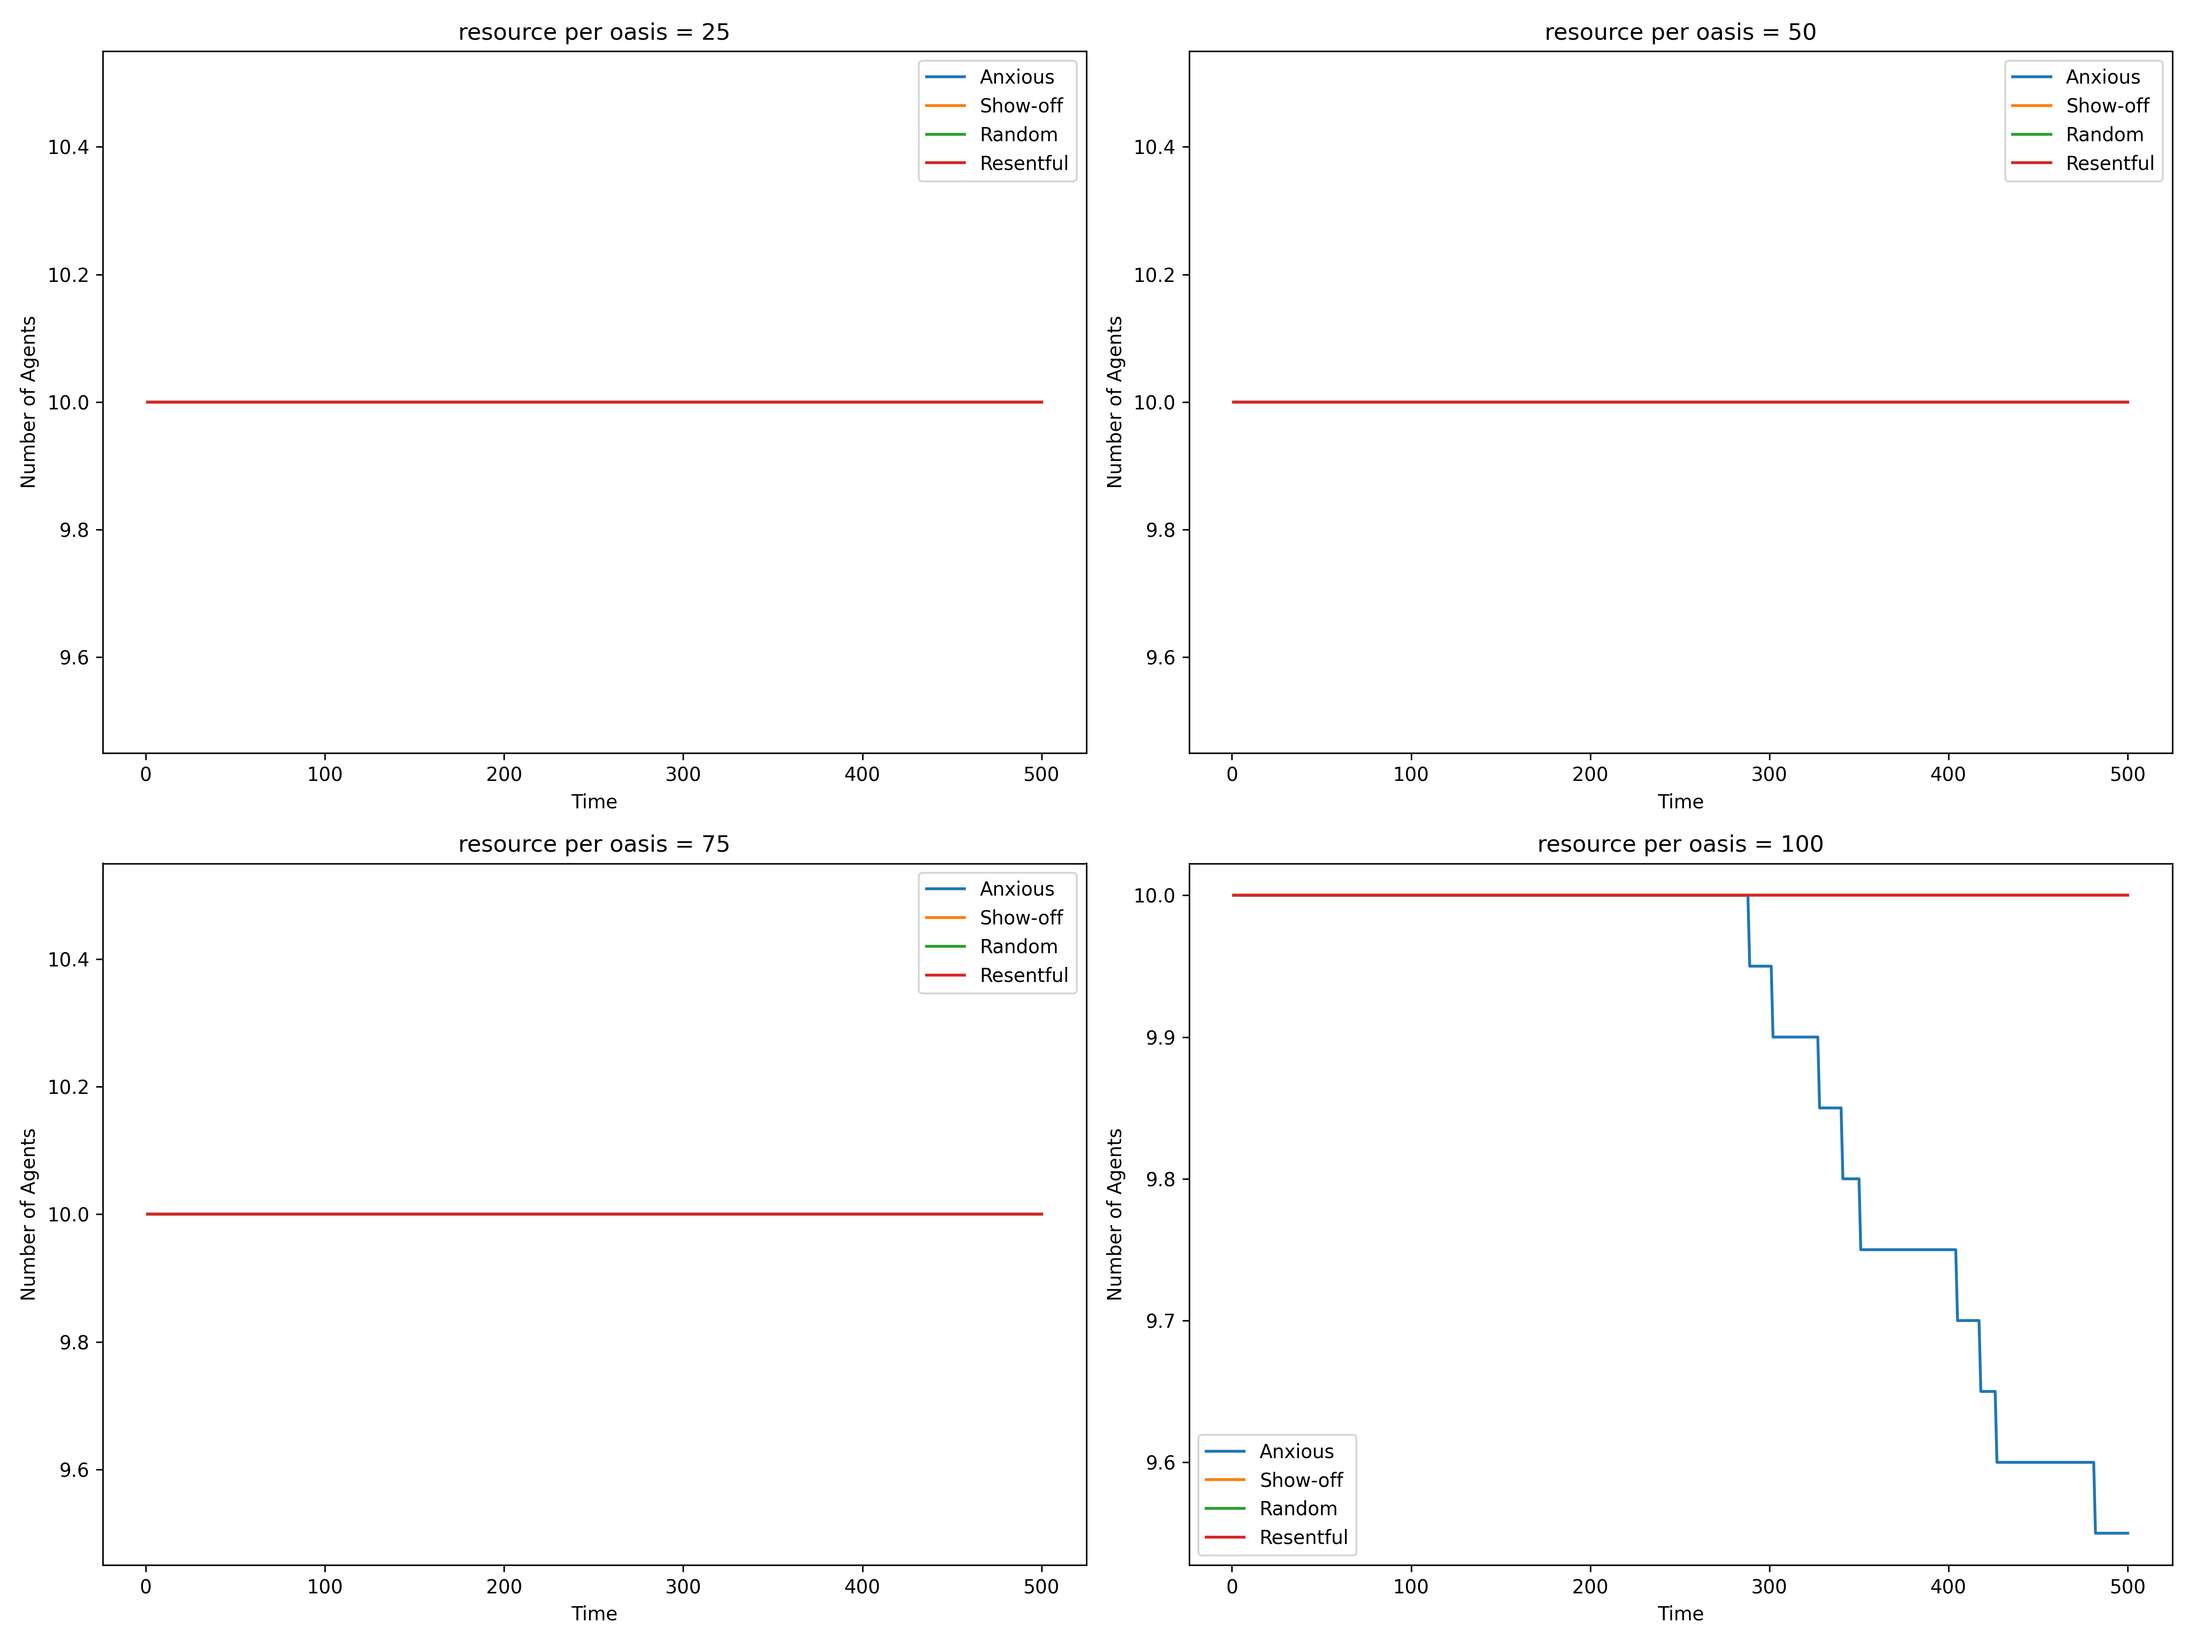
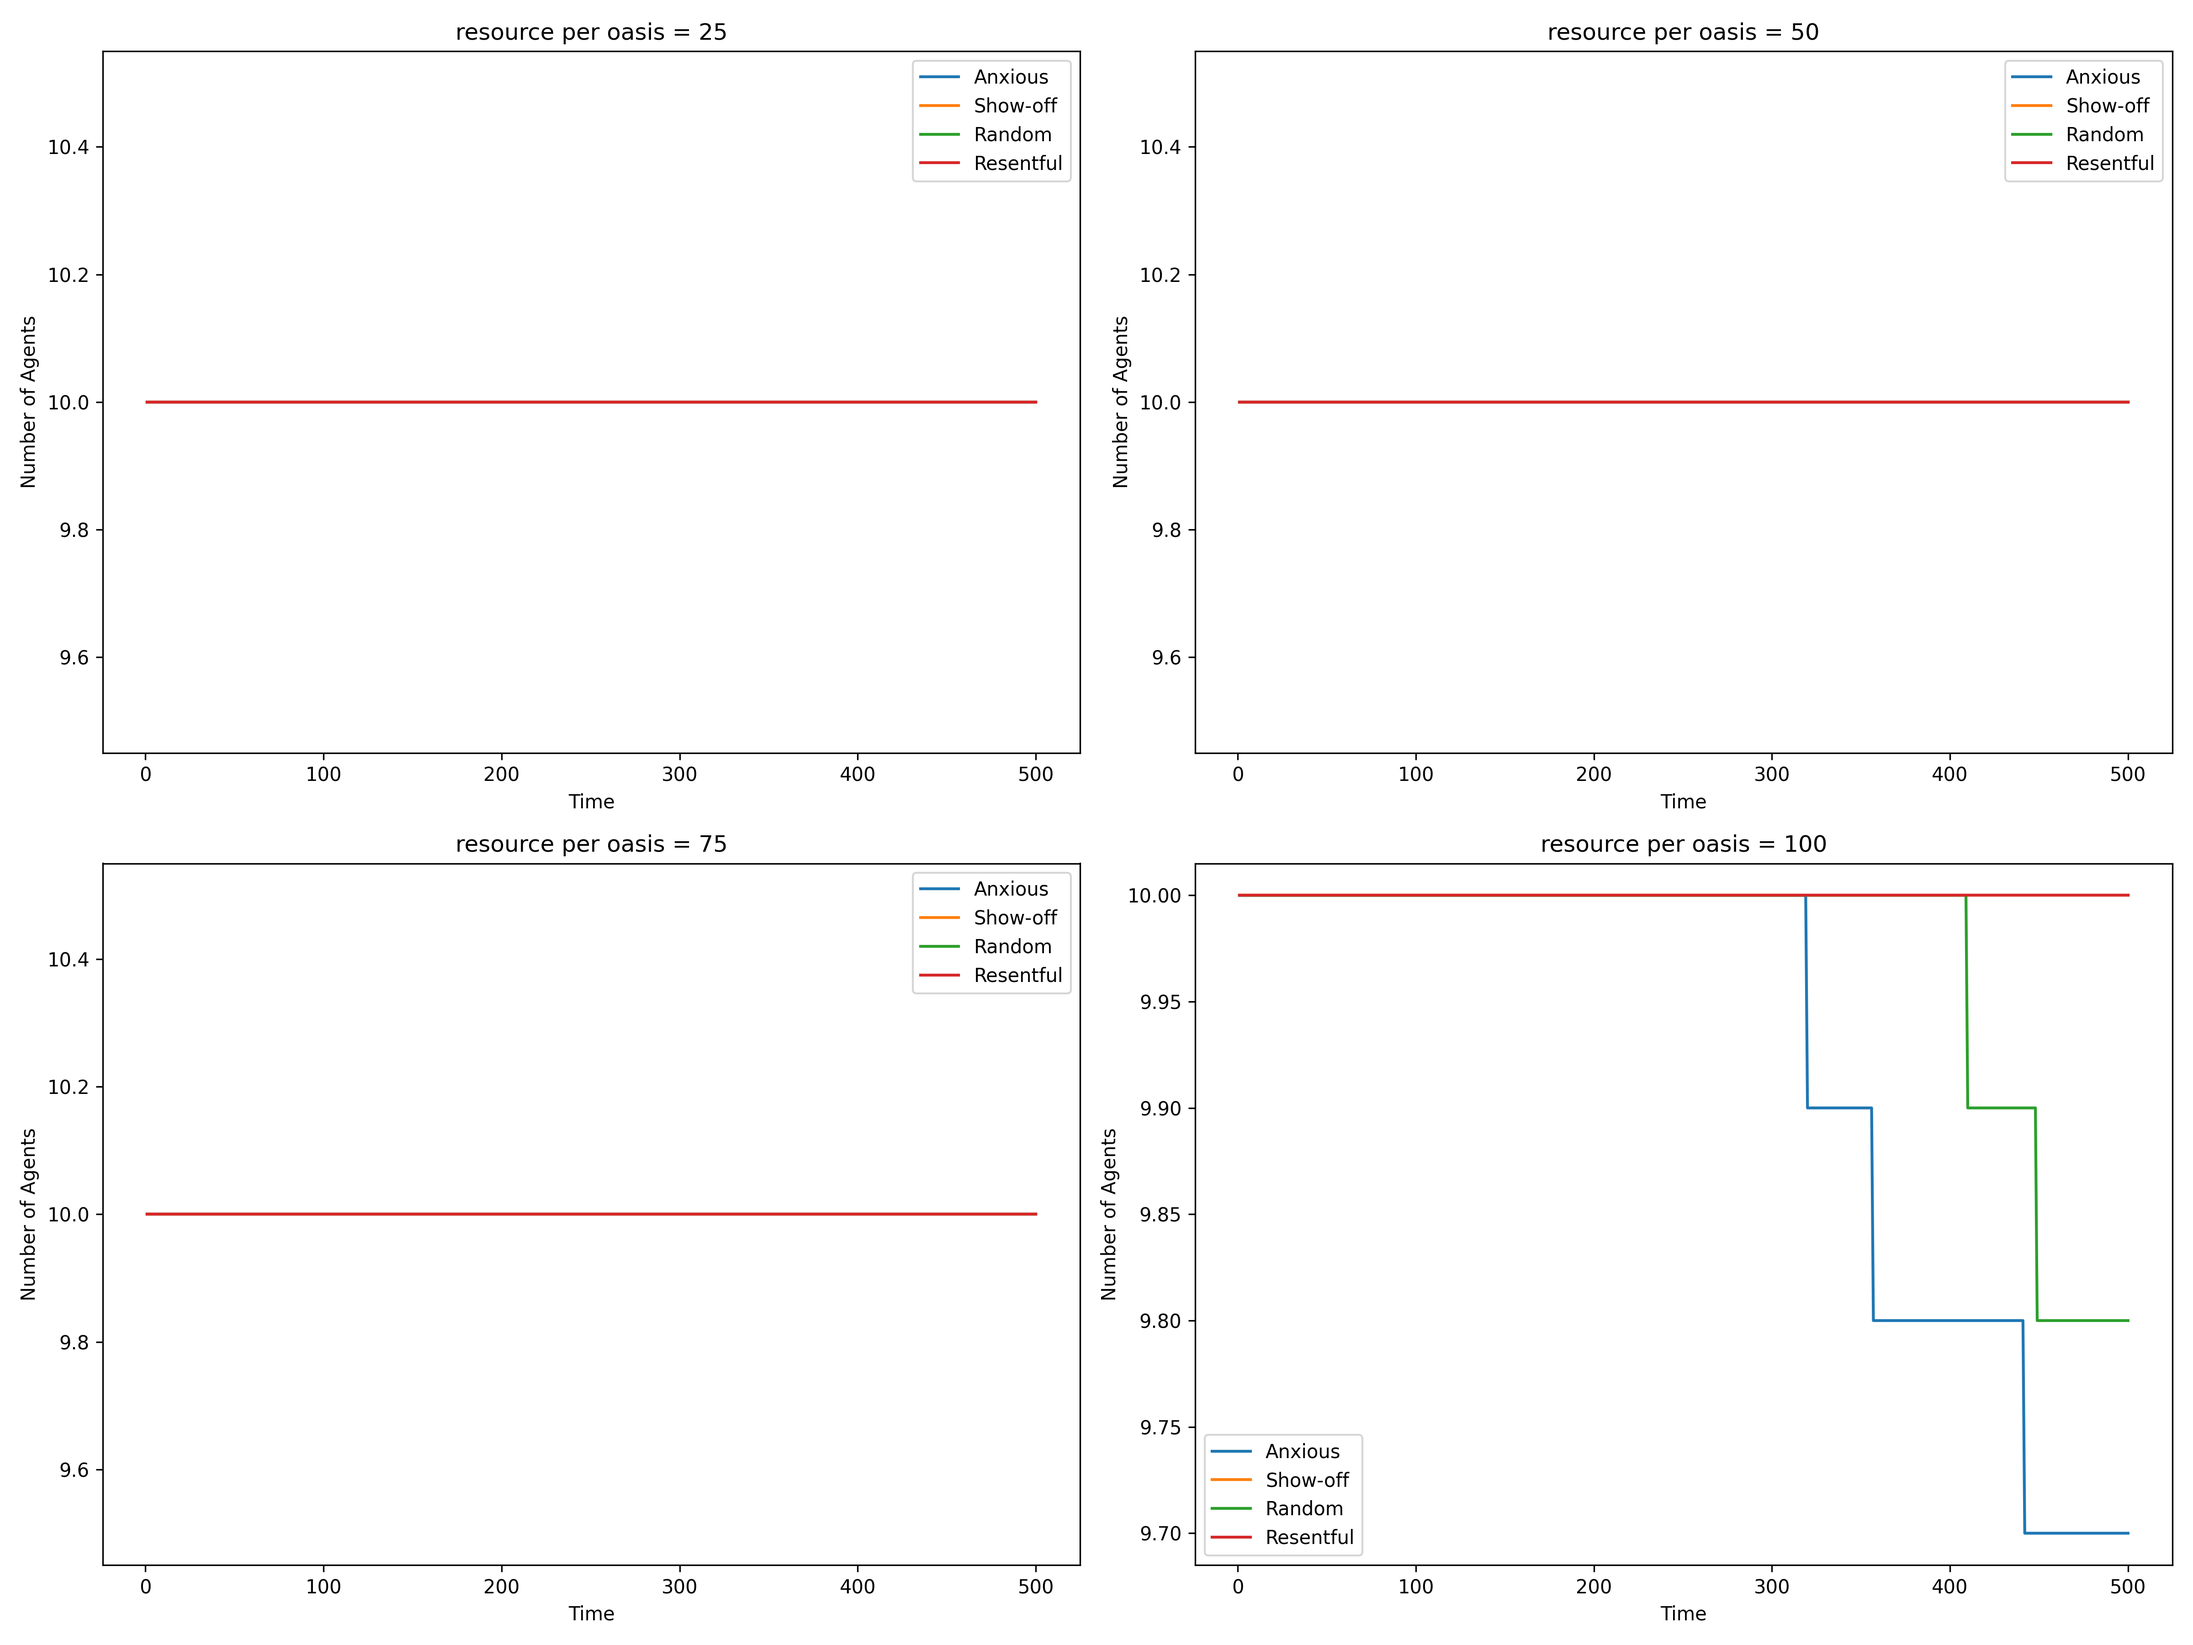
Balthazar's version of type_model

diff --git a/Type_experiment/Type_model.py b/Type_experiment/Type_model.py
@@ -12,36 +12,36 @@ if project_root not in sys.path:
 
 from Agents.Oasis import Oasis
 from Agents.Crew import Chimp_crew
-from Model.Model import Model
 
 class Type_Chimp_crew(Chimp_crew):
-    def __init__(self, id, pos, crew_size=10, initial_energy=1000, strat=None, consumption_rate=1, expenditure=1):
-        super().__init__(id, pos, crew_size, initial_energy, consumption_rate=consumption_rate, expenditure=expenditure)
+    def __init__(self, id, pos, crew_size=10, initial_energy=1000, strat=None):
+        super().__init__(id, pos, crew_size, initial_energy)
         self.strat = strat
         self.type = None
         self.last_opp_type = -1
 
-class Type_Model(Model):
-    def __init__(self, n_crews, grid_size, n_types,  cost_fight = 10, oasis_spawn_proportional=True, abundance_factor=10, oasis_density=0.3, food_consumption_speed=1.5):
+class Type_Model:
+    def __init__(self, n_crews, n_oases, n_types, grid_size, resource = 100, cost_fight = 10, oasis_spawn_chance=.05):
         '''
         n_crews (int): number of initial chimp crews
         n_oases (int): number of initial oases
         grid_size(int): length of the edge of the square grid
         '''
-        super().__init__(n_crews, grid_size, initialise_crews=False, oasis_spawn_proportional=oasis_spawn_proportional, abundance_factor=abundance_factor, oasis_density=oasis_density, food_consumption_speed=food_consumption_speed)
+        self.id_gen = count()
+        self.grid_size = grid_size
+        self.oasis_spawn_chance = oasis_spawn_chance
+        self.resource = resource
         self.crews = {}
-        self.initial_n_chimps = self.initialize_typed_crews(n_crews, n_types)
-        self.avg_oasis_size = self.food_required / (oasis_density * grid_size * grid_size )
-        self.update_oases()
-        self.cost_fight = cost_fight
-        self.create_typed_grid()
-        pass
-
-    
-    def initialize_typed_crews(self, n_crews, n_types):
+        self.oases = {}
         for i in range(n_crews):
             self.add_chimp_crew(strat=i%n_types)
-        return self.n_chimps
+        for _ in range(n_oases):
+            self.add_oasis()
+        self.grid = []
+        self.create_grid()
+        self.data_track = [[], []]
+        self.cost_fight = cost_fight
+        pass
 
     def add_chimp_crew(self, pos=None, strat=None):
         """
@@ -67,14 +67,29 @@ class Type_Model(Model):
             del self.crews[key]
 
 
+    def add_oasis(self, pos=None):
+        """
+        Generate a new oasis
+        """
+        id = next(self.id_gen)
+        if not pos or any(oasis.pos == pos for oasis in self.oases.values()):
+            pos = (np.random.randint(0,self.grid_size), np.random.randint(0,self.grid_size))
+            while any(oasis.pos == pos for oasis in self.oases.values()):
+                pos = (np.random.randint(0,self.grid_size), np.random.randint(0,self.grid_size))
+
+        resource = random.randint(self.resource // 2, self.resource * 3 //2)
+        new_oasis = Oasis(id, pos, resource)
+        self.oases[id] = new_oasis
+        return new_oasis
+    
         
-    def create_typed_grid(self):
+    def create_grid(self):
         grid = np.zeros((self.grid_size, self.grid_size), dtype='f')
         
         for oasis in self.oases.values():
-            grid[oasis.X, oasis.Y] = 50
+            grid[oasis.X, oasis.Y] = 1
         for crew in self.crews.values():
-            grid[crew.X, crew.Y] += 1 + crew.strat
+            grid[crew.X, crew.Y] += 2
         self.grid = grid
 
 
@@ -103,7 +118,6 @@ class Type_Model(Model):
                 self.add_oasis()
             
 
-        self.update_oases()
 
         for crew in self.crews.values(): # TODO: Randomize order??
             # Check if at oasis, if so eat, else move

diff --git a/Type_experiment/Type_plot.py b/Type_experiment/Type_plot.py
@@ -3,7 +3,7 @@ import matplotlib.pyplot as plt
 import numpy as np
 from tqdm import tqdm
 
-n_sim = 20
+n_sim = 10
 sim_length = 500
 t = np.linspace(1, sim_length, sim_length)
 cost_fight_values = [10, 20, 50, 100]
